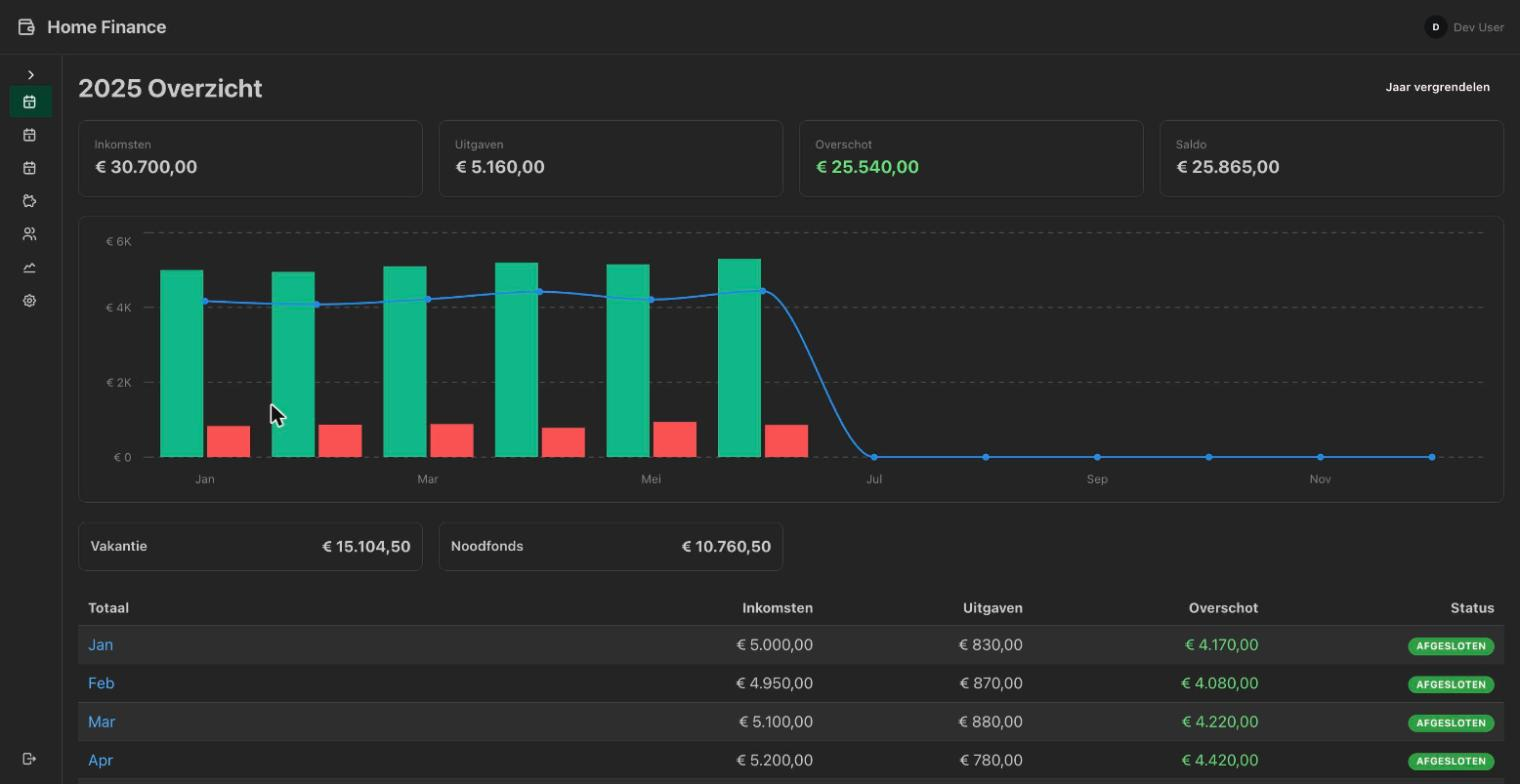
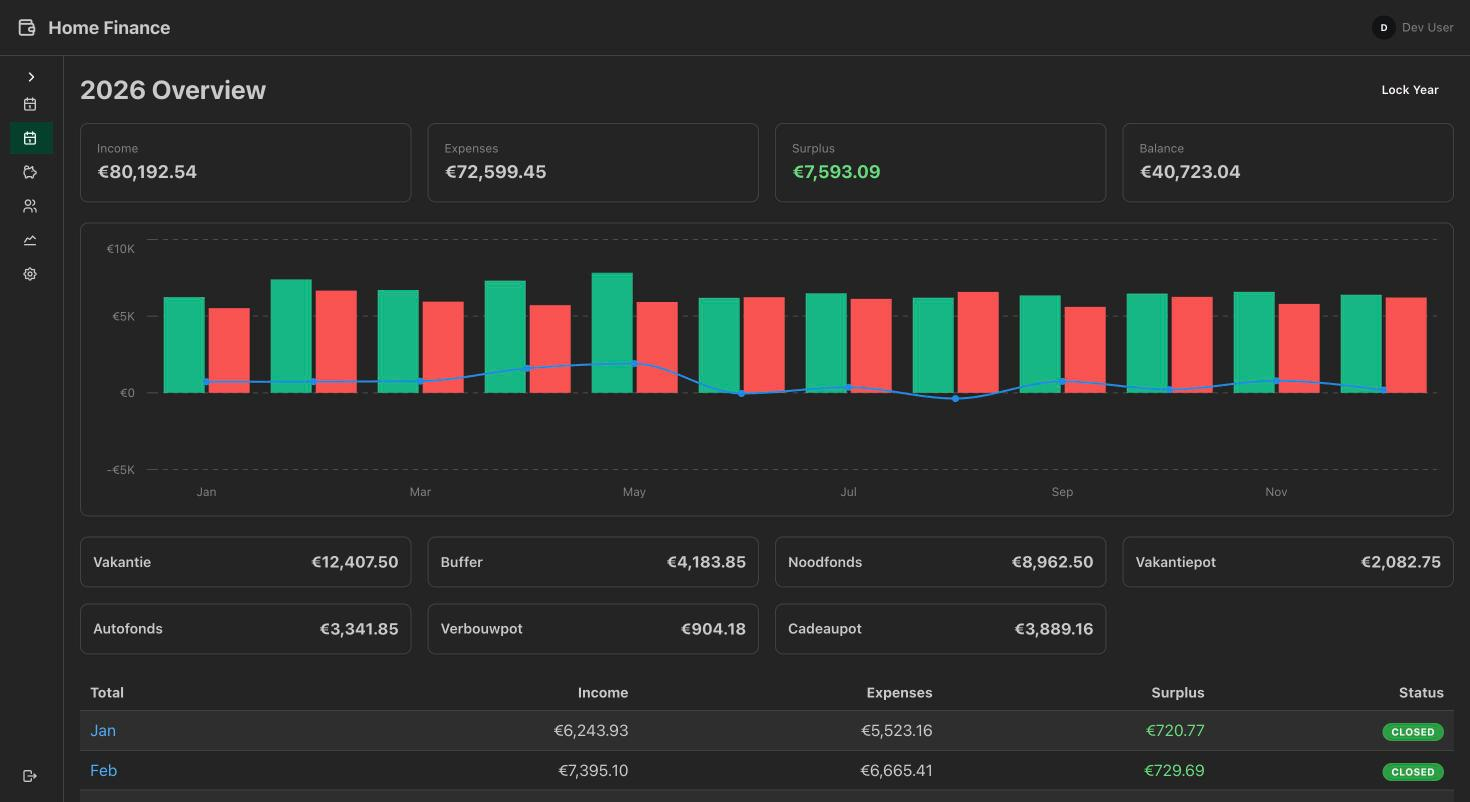
docs: refresh screenshots and update the README for the new trends board (#167)
* docs: refresh screenshots and update the README for the new trends board

The trends screenshot still showed the old board — four KPI tiles and a
single chart — on stale test data, and all three images were of the Dutch
UI while the README around them is English.

All screenshots are retaken against the demo dataset (`make seed-demo`), so
they contain no real household data, with the interface in English. The
trends shot shows the new widgets, and a Sankey of income flowing into
categories and pots is added as a second row — it is the most distinctive
view in the app and nothing in the README hinted it existed.

The features list now describes what the board actually does, and the quick
start mentions the seeder, which is the thing that makes the app
clickable-through on a fresh checkout.

* docs: add a social preview image built from the app icon

GitHub shows a generic grey card when the repository link is shared or
embedded. This is a 1280x640 card using the app's own icon, name and
one-line description, ready to upload under Settings > General > Social
preview — that upload is web-UI only, there is no API for it.

Keeping the source image in the repo means it can be regenerated or
tweaked later instead of living only in GitHub's settings.

---------

diff --git a/README.md b/README.md
@@ -8,8 +8,11 @@ Built to replace a fragile, manually-maintained Excel workflow.
   <img src="docs/screenshots/dashboard.jpg" alt="Year dashboard" width="100%">
 </p>
 <p align="center">
-  <img src="docs/screenshots/trends.png" alt="Trends dashboard" width="65%">
+  <img src="docs/screenshots/trends.jpg" alt="Trends dashboard" width="65%">
   <img src="docs/screenshots/mobile.jpg" alt="Mobile view" width="30%">
+</p>
+<p align="center">
+  <img src="docs/screenshots/money-flow.jpg" alt="Sankey diagram of income flowing into categories and savings pots" width="100%">
 </p>
 
 ## Features
@@ -17,8 +20,10 @@ Built to replace a fragile, manually-maintained Excel workflow.
 - **Monthly budget tracking** — income and expenses per category, budget-vs-actual at a glance
 - **Savings pots** — a ledger per pot with goals, and automatic percentage-based allocation of
   each month's surplus on close
-- **Trends dashboard** — modular, customizable widgets (category breakdowns, multi-period
-  comparisons, all-time trends) plus a dedicated month-vs-month drill-down
+- **Trends dashboard** — a modular board you arrange yourself: income per source, where each
+  category's money goes, savings-pot balances and goals, savings rate, the biggest recurring
+  payments, and a Sankey of income flowing into categories and pots — plus category breakdowns,
+  multi-period comparisons, all-time trends and a month-vs-month drill-down
 - **Excel export/import**, including a one-time migration path from a legacy spreadsheet
 - **Role-based access** (admin/user) with a full audit log and step-up re-authentication on
   destructive actions
@@ -46,7 +51,13 @@ short summary on purpose.
 ```bash
 cp .env.example .env
 make dev          # starts postgres + dex, backend on :8080, frontend on :5173
+make seed-demo    # optional: fill the database with a demo year to click through
 ```
+
+`make seed-demo` generates a deterministic demo year (income sources, categories, ~900
+transactions, savings pots, kids' savings) with invented names, so there is something realistic
+to develop against without using real household data. It refuses to run against anything but a
+localhost database; add `ARGS=--wipe` to replace an existing demo dataset.
 
 Open http://localhost:5173 — dev login is via the local dex container
 (`deploy/dex/config.yaml`: `wouter@example.com` / `password`). Set `DEV_FAKE_AUTH=true` to skip
